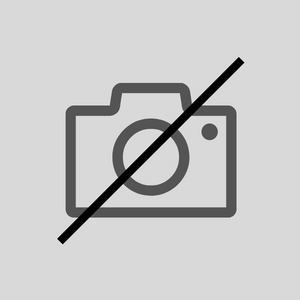
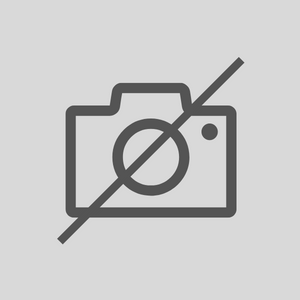
Aggiunta immagine placeholder quando non il carosello ha meno di 3 immagini, e disattivati i bottoni se non ci sono immagini a dx e/o sx

Changed region(s): [[0.18, 0.18, 0.81, 0.81]]

diff --git a/src/main/java/com/univr/gestoreimmagini/WorkingImageController.java b/src/main/java/com/univr/gestoreimmagini/WorkingImageController.java
@@ -18,6 +18,7 @@ import javafx.scene.image.ImageView;
 import javafx.stage.Stage;
 import javafx.util.converter.NumberStringConverter;
 
+import java.awt.event.MouseEvent;
 import java.io.IOException;
 import java.net.URL;
 import java.util.ResourceBundle;
@@ -33,10 +34,24 @@ public class WorkingImageController implements Initializable {
     private ImageView leftImage;
     @FXML
     private ImageView rightImage;
+    @FXML
+    private Button leftButton;
+    @FXML
+    private Button rightButton;
 
     private Model modello = Model.getModel();
 
     private SimpleIntegerProperty selectedImageIndex = new SimpleIntegerProperty();
+
+    private Image voidImage;
+
+    public WorkingImageController(){
+        try {
+            voidImage = new Image(getClass().getResource("void.png").openStream());
+        } catch (IOException e) {
+            throw new RuntimeException(e);
+        }
+    }
 
     @Override
     public void initialize(URL url, ResourceBundle resourceBundle) {
@@ -44,29 +59,45 @@ public class WorkingImageController implements Initializable {
 
         mainImage.setImage(modello.getImages().getRisorsa(getSelectedImageIndex()).getImage());  //Inizializzo mainImage con l'immagine 0
 
+        updateImages(0);
+
         selectedImageIndex.addListener(this::changed);
     }
 
-    public void changed(ObservableValue<? extends Number> observableValue, Number oldValue, Number newValue) {
-        Image nextMainImage = getNextImage(newValue.intValue());
-        Image nextLeftImage = getNextImage(getLeftIndex(newValue.intValue()));
-        Image nextRightImage = getNextImage(getRightIndex(newValue.intValue()));
+    private void changed(ObservableValue<? extends Number> observableValue, Number oldValue, Number newValue) {
+        updateImages(newValue.intValue());
+    }
+
+    private void updateImages(int newValue){
+        Image nextMainImage = getNextImage(newValue);
+        Image nextLeftImage = getNextImage(getLeftIndex(newValue));
+        Image nextRightImage = getNextImage(getRightIndex(newValue));
 
         mainImage.setImage(nextMainImage);
 
         int size = modello.getImages().getSize();
 
-        if(size==1)  //Se ho solo un immagine mostro solo quella al centro
-            return;
+        if(size==1) {  //Se ho solo un immagine mostro solo quella al centro
+            leftButton.setOnAction(null);  //disattivo entrambi i bottoni
+            leftButton.getStyleClass().add("deactivatedButton");
+            rightButton.setOnAction(null);
+            rightButton.getStyleClass().add("deactivatedButton");
+        }
 
         else if(size==2){
-            if(newValue.intValue()==1){  //se l'immagini principale è l'ultima della lista mostro solo l'immagine alal sua sinistra
+            if(newValue==1){  //se l'immagini principale è l'ultima della lista mostro solo l'immagine alla sua sinistra
+                leftButton.setOnAction(this::scrollLeft);
                 leftImage.setImage(nextLeftImage);
-                rightImage.setImage(null);
+                rightButton.setOnAction(null);
+                rightButton.getStyleClass().add("deactivatedButton");
+                rightImage.setImage(voidImage);
             }
 
             else{  //se invece è la prima della lista mostro solo quella alla sua destra
-                leftImage.setImage(null);
+                leftButton.setOnAction(null);
+                leftButton.getStyleClass().add("deactivatedButton");
+                leftImage.setImage(voidImage);
+                rightButton.setOnAction(this::scrollRight);
                 rightImage.setImage(nextRightImage);
             }
         }
